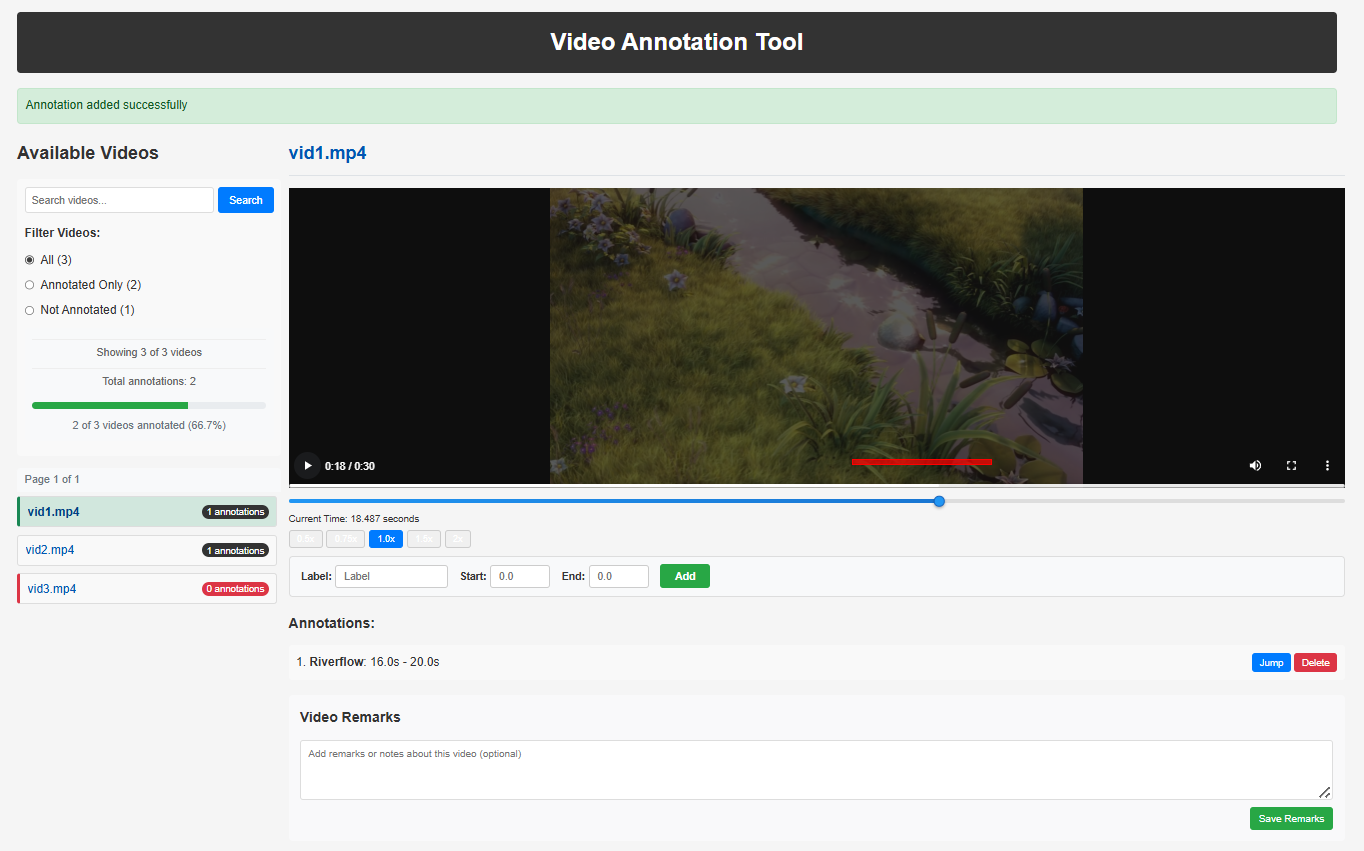
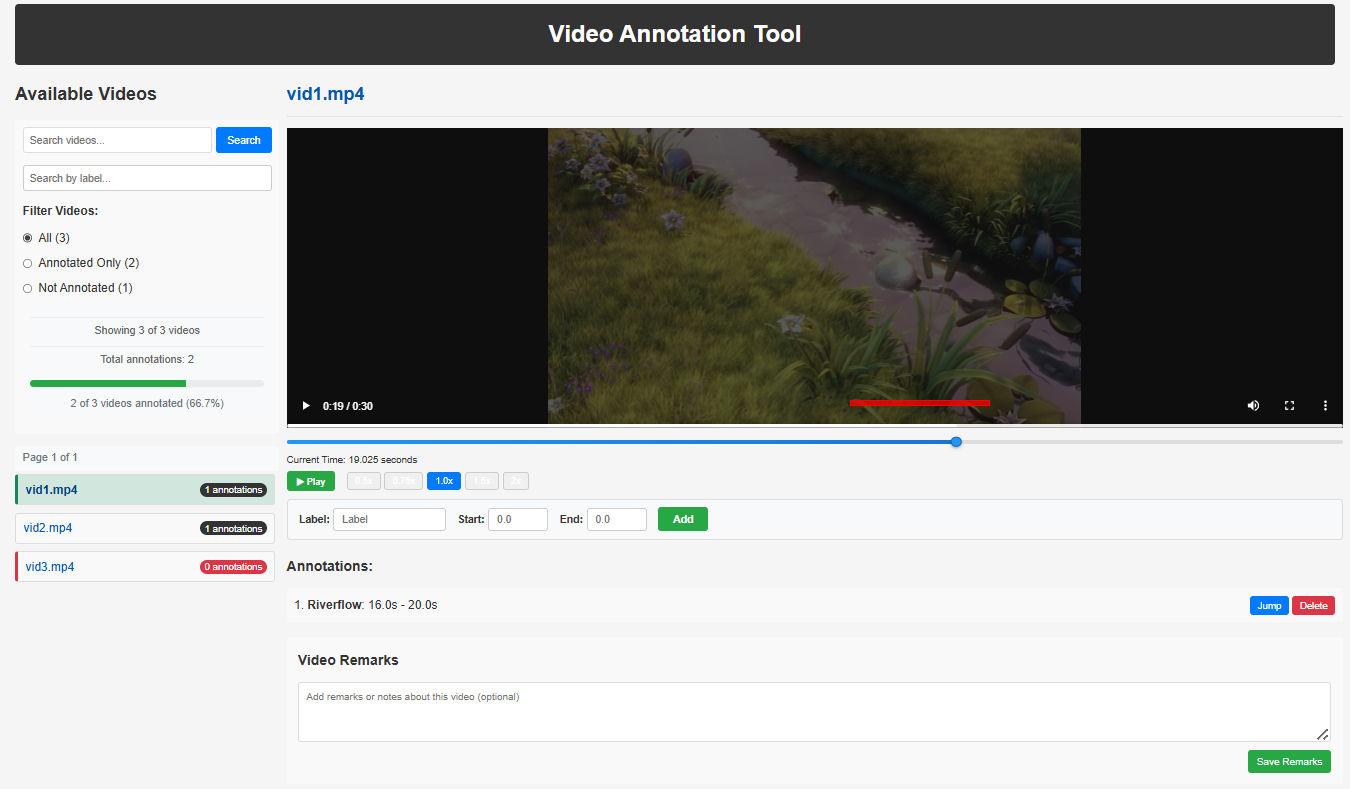
Update readme

diff --git a/README.md b/README.md
@@ -17,11 +17,7 @@ Built with Python Flask and minimal JavaScript, the tool is designed to be simpl
 
 ## Getting Started
 
-### Prerequisites
 
-- Python 3.6 or higher
-- Flask 2.0.1 or higher
-- Modern web browser (Chrome, Firefox, Safari, Edge)
 
 ### Installation
 
@@ -86,9 +82,16 @@ Each annotation has two actions:
 ### Timeline Markers
 
 - Red markers on the video timeline represent annotations
+
 - Click on a marker to jump to that annotation's start time
+
 - Hover over markers to see the annotation details
 
+- User can use mouse to scroll through the timeline if there are many annotations.
+
+- User can use keyboard arrow to skip forward/backward 2 to 5 seconds.
+
+- User can search the files based on the name or annotated labels. 
 ### Path Issues
 
 If the tool detects inconsistent file paths in your annotation data, a warning will appear with a "Fix Path Issues" button to automatically normalize paths.
@@ -100,14 +103,9 @@ Annotation data is stored in:
 - `/backend/data/annotation.json` (for existing annotations)
 
 
-## For new data annotation
-1. Use `convert_annotations.py` to convert your CSV or XLS data to JSON format.
+## Bonus
+ Use `convert_annotations.py` to convert your CSV or XLS data to JSON format.
 
 ```bash
 python backend/convert_annotations.py --in-file backend/data/input.csv
 ```
-
-2. 
-
-
-
